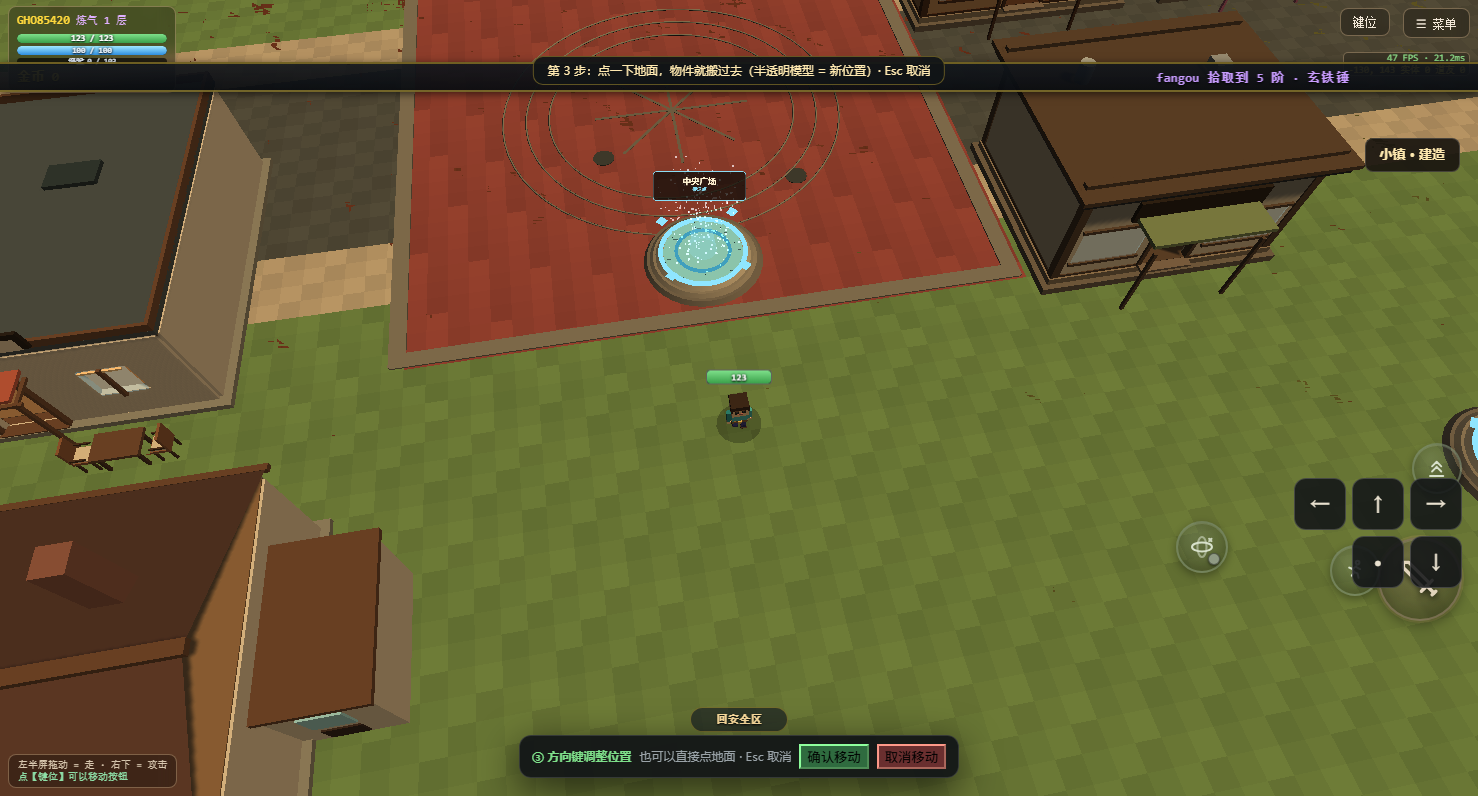
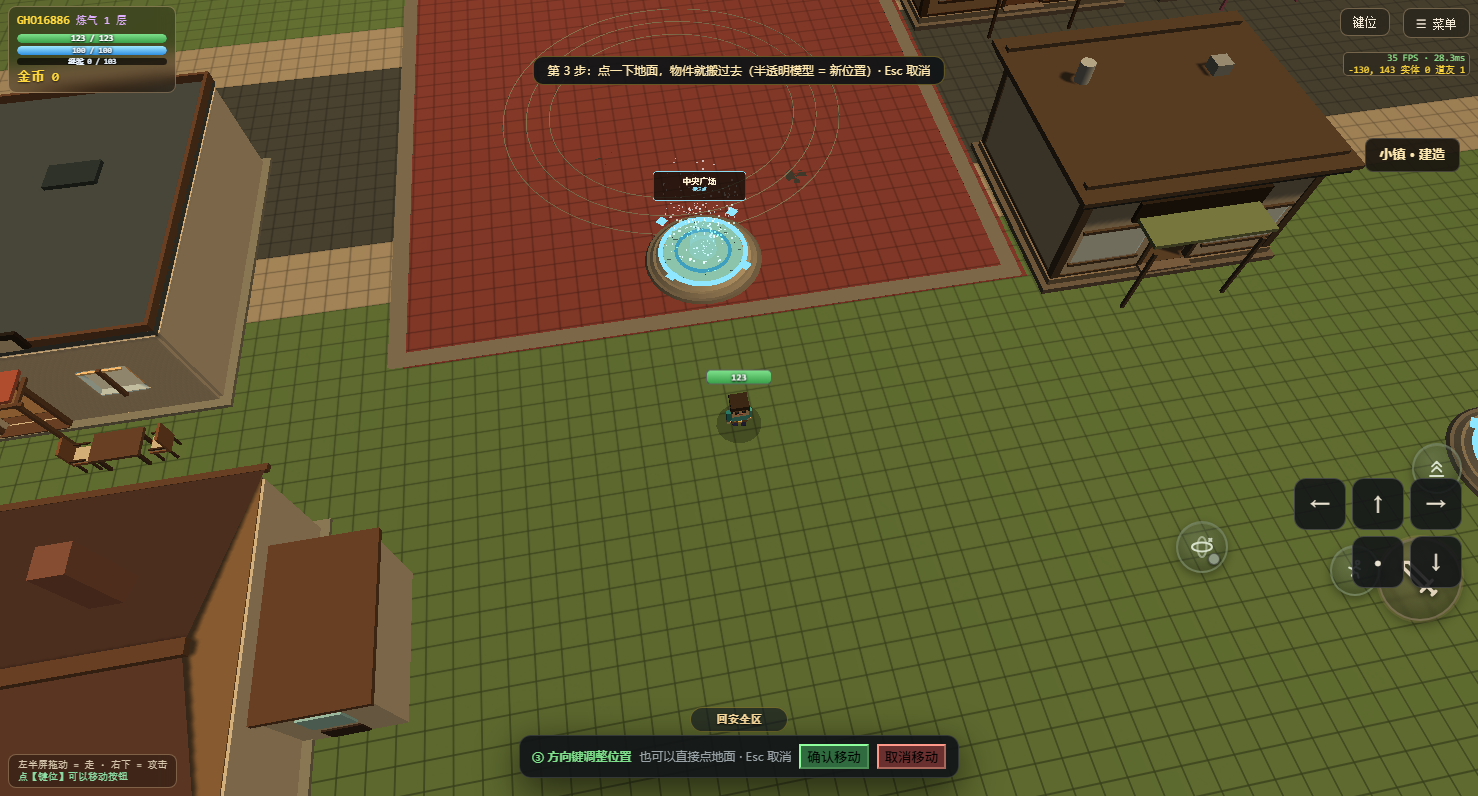
town ground now uses a tile texture like the outdoor terrain (gap painted into the texture instead of cut into the geometry): fixes the Z-fighting flicker, keeps the tile grid, same triangle count

diff --git a/web/core/town.js b/web/core/town.js
@@ -2428,9 +2428,72 @@ var _TOWN_GROUND_COLORS = {
   road:  { top: 0x50524c, side: 0x3b3d39, bot: 0x232522 },
   lane:  { top: 0xd8d2bc, side: 0x9a9482, bot: 0x5a564a }
 };
+/* ★★★ 2026-10-24（用户："野外的是什么样不能一样吗" → "按这个做吧"）★★★
+   ★ 野外靠【一张贴图】出格子：/assets/3d/ground_mix.png（512×512，4×4 格）
+     每格 128px，边缘画暗缝 ✗ UV 用世界坐标铺 → 自动连续 ✓
+     几何体只有每格 2 个三角 ✗ 缝隙是"画"出来的不是"切"出来的 ✓✓
+   ★ 小镇照搬同一套：
+     · 现画一张同规格的地砖贴图（512×512，4×4 格）✗ 不用外部文件 ✓
+     · 每格中间【白色】✗ 不是画死颜色（会被顶点色乘上去 ✓ 所以白色 = 保留顶点色 ✓）
+     · 每格边缘画一圈【暗灰】✗ 这就是砖缝 ✓
+     · UV 走世界坐标 ✗ 缝隙跟着世界走、不重复、不拉伸 ✓
+   ★ 为什么这样最划算：
+     三角面不变（还是每格 2 个）✗ 缝隙由贴图提供 ✓
+     缝宽在贴图里精确控制 ✗ 不受 3D 深度精度影响（不会再 Z-fighting）✓
+     缝的颜色是"暗"，不是野外的草地色 ✗ 对比柔和 ✓✓
+*/
+var _TOWN_TILE_TEX = null;
+function townTileTexture() {
+  if (_TOWN_TILE_TEX) { return _TOWN_TILE_TEX; }
+  var S = 512, N = 4, C = S / N;          /* 4×4 格，每格 128px（和野外一样）*/
+  var cv = UI.townCanvas(S, S);
+  var c = cv.getContext('2d');
+  /* ① 整张铺满【中性灰白】✗ 顶点色乘上来就是这个颜色 ✓
+     （用纯白 255 会过曝 ✗ 用 235 留一点余量 ✓）*/
+  c.fillStyle = '#ebebeb';
+  c.fillRect(0, 0, S, S);
+  /* ② 每格边缘画砖缝 ✗ 缝宽 6px（128px 的 4.7%）✓
+     颜色 #8a8a8a（暗一档）✗ 乘上顶点色就是"深一点的砖色" ✓ 不是黑的 ✓ */
+  var GAP = 6;
+  c.strokeStyle = '#8a8a8a';
+  c.lineWidth = GAP;
+  for (var gi = 0; gi <= N; gi++) {
+    var p1 = Math.round(gi * C);
+    c.beginPath(); c.moveTo(p1, 0); c.lineTo(p1, S); c.stroke();
+    c.beginPath(); c.moveTo(0, p1); c.lineTo(S, p1); c.stroke();
+  }
+  /* ③ 砖面加极淡的颗粒 ✗ 打破贴图的绝对均匀（但幅度比原来小得多 ✓）
+     ★ 原来的问题是"每格 7 个 3×2 硬点" → 变成砂粒噪点 ✗
+       现在改成"每格 20 个 1×1 的半透明点" → 只是极轻的质感 ✓ */
+  for (var i2 = 0; i2 < N; i2++) {
+    for (var j2 = 0; j2 < N; j2++) {
+      for (var k2 = 0; k2 < 20; k2++) {
+        var hx = (i2 * 73856093 ^ j2 * 19349663 ^ k2 * 83492791) >>> 0;
+        var px = i2 * C + GAP + (hx % (C - GAP * 2 - 2));
+        var pz = j2 * C + GAP + ((hx >> 9) % (C - GAP * 2 - 2));
+        c.fillStyle = (hx & 1) ? 'rgba(255,255,255,.16)' : 'rgba(120,120,120,.14)';
+        c.fillRect(px, pz, 1, 1);
+      }
+    }
+  }
+  var tex = new THREE.CanvasTexture(cv);
+  try { tex.colorSpace = THREE.SRGBColorSpace; } catch (e) { }
+  tex.wrapS = THREE.RepeatWrapping;
+  tex.wrapT = THREE.RepeatWrapping;
+  tex.magFilter = THREE.LinearFilter;
+  tex.minFilter = THREE.LinearMipmapLinearFilter;
+  tex.anisotropy = 4;
+  _TOWN_TILE_TEX = tex;
+  return tex;
+}
+
 function townGroundMat() {
   if (_TOWN_GROUND_MATS.m) { return _TOWN_GROUND_MATS.m; }
-  var mat = new THREE.MeshLambertMaterial({ vertexColors: true });
+  /* ★ 2026-10-24：加贴图 ✗ 和野外同一套（贴图给缝、顶点色给颜色）*/
+  var mat = new THREE.MeshLambertMaterial({
+    vertexColors: true,
+    map: townTileTexture()
+  });
   _TOWN_GROUND_MATS.m = mat;
   return mat;
 }
@@ -2509,19 +2572,70 @@ function townBlockGround(g) {
        但地砖是平铺的：侧面永远被邻居/地形挡住，只有顶面看得见。
        → 改成"只保留顶面"的合并几何：每块 2 个三角，三角数直接降到 1/6，
          颜色/明暗和原来完全一致（逐块随机明暗照旧），draw call 还是每类 1 次。 */
-    var V = [], C = [], NN = [], I = [];
+    var V = [], C = [], NN = [], I = [], UV = [];   /* ★ UV：贴图坐标（世界坐标铺 ✓）*/
     var CELL = _TOWN_TILE_CELL;
-    var y = -0.309 + 0.31;                 /* 原来立方体的顶面高度 */
+    /* ★★★ 2026-10-24（用户："俯视时小镇地面有闪烁/波纹，平视没有"）★★★
+       ★ 真凶：【Z-fighting 深度冲突】
+         · 野外地面 y = 0（game.js refreshGround）
+         · 小镇地面 y = -0.309 + 0.31 = 0.001  ← 只高 1 毫米！
+         · 平视时深度精度够 → 能分清谁在上面 ✓
+         · 俯视时视线几乎垂直地面 ✗ 深度值全挤在极小一段里
+           → 1 毫米的差距超出 24 位深度缓冲的精度
+           → 两层面片逐像素争夺前后 ✗ 画面就是【闪烁 / 波纹】✓✓
+       ★ 修：把小镇地面抬高到 0.06 米 ✗ 明显高于野外地面
+         · 0.06 = 6 厘米 ✗ 俯视时绝对分得清 ✓
+         · 又不会让地砖"浮起来"（6 厘米在 30 米高的俯视里看不出来 ✓）
+         · 地砖之间不重叠（同一层，只是整体抬高 ✓）不会有新的冲突 ✓
+       ★ 为什么不改野外地面的 y=0：那是整个世界的地基 ✗ 动它影响范围太大 ✓
+         抬高小镇（局部）更安全 ✓ */
+    var y = 0.06;                          /* 顶面高度（比野外的 0 高 6cm ✗ 避免 Z-fighting ✓）*/
     var bc = new THREE.Color((_TOWN_GROUND_COLORS[kind] || _TOWN_GROUND_COLORS.grass).top);
     for (var n = 0; n < list.length; n++) {
       var x = list[n].x, z = list[n].z;
       var b = V.length / 3;
-      V.push(x - CELL / 2, y, z - CELL / 2,
-             x + CELL / 2, y, z - CELL / 2,
-             x + CELL / 2, y, z + CELL / 2,
-             x - CELL / 2, y, z + CELL / 2);
+      /* ★★★ 2026-10-24（用户："怎么看不到小格子了"）★★★
+         ★ 为什么格子"消失"了：
+           原来每块瓦片【铺满整个 CELL ✗ 和邻居严丝合缝共边】，本身就没有缝 ✓
+           以前能看见格子 ✗ 是靠【Z-fighting 的明暗抖动】凑出来的假象 ✓✓
+           现在 Z-fighting 修好了 → 假象没了 → 格子也看不到了 ✓
+         ★ 修：真的留一道缝 ✗ 每块瓦片四周各缩 1.5 厘米
+           · 缝宽 = 3 厘米 ✗ 俯视时清晰可见 ✓
+           · 缩的是【几何】不是颜色 ✗ 不会影响明暗 ✓
+           · 缝下面露出的是野外地面的深色 ✗ 正好就是砖缝该有的样子 ✓✓
+           · 比例：0.62m 的砖留 3cm 缝 ✗ 大约 5% ✗ 看起来自然 ✓ */
+      /* ★★★ 2026-10-24（用户："野外的是什么样不能一样吗"）★★★
+         ★ 不再用【几何留缝】✗ 改回满格 ✓
+           缝由【贴图】提供（townTileTexture 里画的）✓ 三角面不增加 ✓
+           而且贴图的缝不受 3D 深度精度影响 ✗ 不会再 Z-fighting ✓
+         ★ UV 用【世界坐标】✗ 和野外一模一样：
+           u = x / (CELL * 4)  → 一张贴图正好覆盖 4×4 块砖 ✓
+           贴着世界走 ✗ 走到哪儿花纹都对得上、不重复、不拉伸 ✓ */
+      var _h = CELL / 2;
+      V.push(x - _h, y, z - _h,
+             x + _h, y, z - _h,
+             x + _h, y, z + _h,
+             x - _h, y, z + _h);
+      var _UVM = CELL * 4;                    /* 一张贴图 = 4×4 块砖 */
+      UV.push((x - _h) / _UVM, (z - _h) / _UVM,
+              (x + _h) / _UVM, (z - _h) / _UVM,
+              (x + _h) / _UVM, (z + _h) / _UVM,
+              (x - _h) / _UVM, (z + _h) / _UVM);
       for (var kk = 0; kk < 4; kk++) { NN.push(0, 1, 0); }
-      var shade = 0.93 + ((n * 37) % 11) * 0.012;
+      /* ★★★ 2026-10-24（用户："俯视看小镇地面有很多噪点，外面没有"）★★★
+         ★ 病根：原来是【伪随机跳变】
+             shade = 0.93 + ((n * 37) % 11) * 0.012
+           相邻两块瓦片的亮度差最多 13% ✗ 而且毫无规律 ✓
+           0.62 米的小瓦片铺满整个小镇 → 俯视就是满屏"砂粒噪点" ✓✓
+         ★ 为什么外面没有：野外的 tintAt() 用 sin/cos 连续函数 ✗
+           相邻块平滑过渡 → 成片色块 ✓ 没有噪点 ✓
+         ★ 修：照搬野外的思路 ✗ 用【世界坐标的 sin 叠加】做连续明暗
+           相邻瓦片只差 0.1~0.3% ✓ 肉眼完全平滑 ✓
+           但大范围（10 米周期）仍有自然的明暗起伏 ✓ 不至于死板 ✓ */
+      var _wsx = x * 0.10, _wsz = z * 0.10;
+      var _sh = 0.98
+              + Math.sin(_wsx * 1.3 + 0.7) * Math.cos(_wsz * 1.1 - 0.4) * 0.035
+              + Math.sin((_wsx + _wsz) * 0.63 + 2.1) * 0.025;
+      var shade = _sh;
       for (var kc = 0; kc < 4; kc++) {
         C.push(bc.r * shade, bc.g * shade, bc.b * shade);
       }
@@ -2531,6 +2645,9 @@ function townBlockGround(g) {
     geo.setAttribute('position', new THREE.Float32BufferAttribute(V, 3));
     geo.setAttribute('normal', new THREE.Float32BufferAttribute(NN, 3));
     geo.setAttribute('color', new THREE.Float32BufferAttribute(C, 3));
+    /* ★ 2026-10-24：UV 一定要加上 ✗ 否则材质带 map 时会报"缺 uv 属性"✓
+       （有 map 但几何体没有 uv → three.js 直接不画 ✗ 地面整个消失 ✓✓）*/
+    geo.setAttribute('uv', new THREE.Float32BufferAttribute(UV, 2));
     geo.setIndex(I);
     var mesh = new THREE.Mesh(geo, townGroundMat());
     mesh.frustumCulled = false;

diff --git a/web/index.html b/web/index.html
@@ -2113,24 +2113,24 @@ body[data-theme="glass"] #setBody .slot [style*="color:#fff"]{color:#ffffff!impo
      那时 DOM 还没解析到它 → getElementById 全是 null →（有 null 保护）静默失败
      → 页面能跑，但登录浮层永远不出现，谁都进不去 ✗（第 26 轮发现）-->
 <script src="/ws-config.js"></script>
-<script src="/lib/three.min.js?v=20261024g"></script>
-<script src="/icons.js?v=20261024g"></script>
-<script src="/vfx.js?v=20261024g"></script>
-<script src="/lib/annrender.js?v=20261024g"></script>
-<script src="/platform/web.js?v=20261024g"></script>
-<script src="/core/town_data.js?v=20261024g"></script>
-<script src="/core/town.js?v=20261024g"></script>
-<script src="/core/game.js?v=20261024g"></script>
-<script src="/core/town_models.js?v=20261024g"></script>
-<script src="/core/town_villas.js?v=20261024g"></script>
-<script src="/core/town_hall.js?v=20261024g"></script>
-<script src="/core/town_shops2.js?v=20261024g"></script>
-<script src="/core/town_shops3.js?v=20261024g"></script>
-<script src="/core/town_shops4.js?v=20261024g"></script>
-<script src="/core/town_veg.js?v=20261024g"></script>
-<script src="/core/town_props.js?v=20261024g"></script>
-<script src="/platform/town_ui.js?v=20261024g"></script>
-<script src="/platform/place.js?v=20261024g"></script>
+<script src="/lib/three.min.js?v=20261024m"></script>
+<script src="/icons.js?v=20261024m"></script>
+<script src="/vfx.js?v=20261024m"></script>
+<script src="/lib/annrender.js?v=20261024m"></script>
+<script src="/platform/web.js?v=20261024m"></script>
+<script src="/core/town_data.js?v=20261024m"></script>
+<script src="/core/town.js?v=20261024m"></script>
+<script src="/core/game.js?v=20261024m"></script>
+<script src="/core/town_models.js?v=20261024m"></script>
+<script src="/core/town_villas.js?v=20261024m"></script>
+<script src="/core/town_hall.js?v=20261024m"></script>
+<script src="/core/town_shops2.js?v=20261024m"></script>
+<script src="/core/town_shops3.js?v=20261024m"></script>
+<script src="/core/town_shops4.js?v=20261024m"></script>
+<script src="/core/town_veg.js?v=20261024m"></script>
+<script src="/core/town_props.js?v=20261024m"></script>
+<script src="/platform/town_ui.js?v=20261024m"></script>
+<script src="/platform/place.js?v=20261024m"></script>
 
 
 
